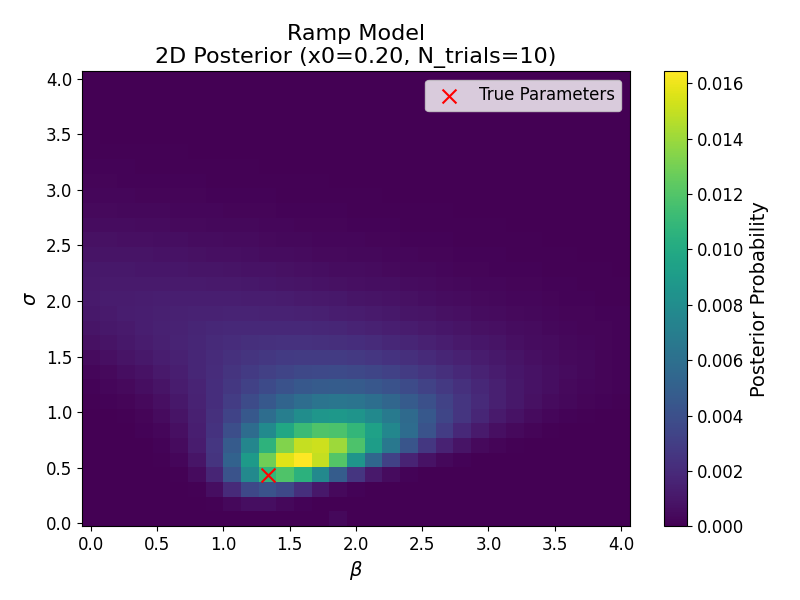
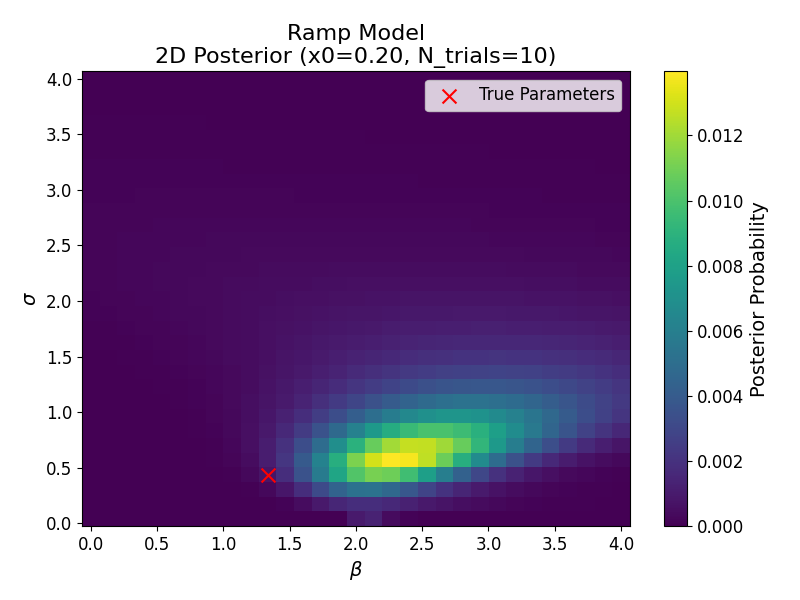
george plot changes 2

diff --git a/w3_viz.py b/w3_viz.py
@@ -225,11 +225,11 @@ def _analyze_estimation_worker(args):
         data, _, _ = model.simulate_exact(Ntrials=n_trials, T=T, delay_compensation=True)
 
     llh_grid = llh_func(data, params_grid)
-    prior_grid = w3_utils.uniform_prior(params_grid)
-    norm_post_grid = w3_utils.norm_posterior(llh_grid, prior_grid)
+    prior_grid = w3_utils.uniform_prior(params_grid, log=True)
+    norm_post_grid = w3_utils.norm_posterior(llh_grid, prior_grid, log=True)
 
-    posterior_means = w3_utils.expectation(norm_post_grid, params_grid)
-    posterior_std_devs = w3_utils.posterior_std_dev(norm_post_grid, params_grid, posterior_means)
+    posterior_means = w3_utils.expectation(norm_post_grid, params_grid, log=True)
+    posterior_std_devs = w3_utils.posterior_std_dev(norm_post_grid, params_grid, posterior_means, log=True)
 
     errors = {}
     stds = {}
@@ -334,8 +334,8 @@ def task_3_1_3_visualize_posterior_marginal(model_type, true_params, n_trials, p
             data, _, _ = model.simulate_exact(Ntrials=n_trials, T=T, delay_compensation=True)
 
         llh_grid = llh_func(data, params_grid)
-        prior_grid = w3_utils.uniform_prior(params_grid)
-        norm_post_grid = w3_utils.norm_posterior(llh_grid, prior_grid)
+        prior_grid = w3_utils.uniform_prior(params_grid, log=True)
+        norm_post_grid = w3_utils.norm_posterior(llh_grid, prior_grid, log=True)
         with open(cache_filename, 'wb') as f:
             pickle.dump(norm_post_grid, f)
         print(f"Saved to cache: {cache_filename}")
